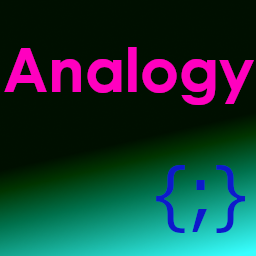
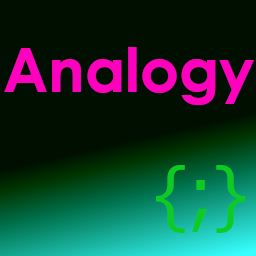
wip

diff --git a/Analogy.LogViewer.JsonParser/IAnalogy/AnalogyJsonFactory.cs b/Analogy.LogViewer.JsonParser/IAnalogy/AnalogyJsonFactory.cs
@@ -15,17 +15,17 @@ namespace Analogy.LogViewer.JsonParser.IAnalogy
     {
         internal static Guid Id = new Guid("D7146342-AEB2-4BD5-8710-7D1BF06EA5CF");
         public Guid FactoryId { get; } = Id;
-        public string Title { get; } = "Analogy Json Text Parser";
+        public string Title { get; } = "Json Log Parser";
         public IEnumerable<IAnalogyChangeLog> ChangeLog => JsonParser.ChangeLog.GetChangeLog();
         public IEnumerable<string> Contributors { get; } = new List<string> { "Lior Banai" };
-        public string About { get; } = "Analogy Json Text Parser";
+        public string About { get; } = "Json Log Parser";
 
     }
 
     public class AnalogyJsonDataProviderFactory : IAnalogyDataProvidersFactory
     {
         public Guid FactoryId { get; } = JsonFactory.Id;
-        public string Title { get; } = "Analogy XML Data Provider";
+        public string Title { get; } = "Json Data Provider";
         public IEnumerable<IAnalogyDataProvider> DataProviders { get; } = new List<IAnalogyDataProvider>()
         {
             new JsonDataProvider(UserSettingsManager.UserSettings.LogParserSettings)
@@ -35,7 +35,7 @@ namespace Analogy.LogViewer.JsonParser.IAnalogy
     public class AnalogyJsonCustomActionFactory : IAnalogyCustomActionsFactory
     {
         public Guid FactoryId { get; } = JsonFactory.Id;
-        public string Title { get; } = "Analogy XML Text tools";
+        public string Title { get; } = "Json tools";
         public IEnumerable<IAnalogyCustomAction> Actions { get; } = new List<IAnalogyCustomAction>(0);
 
     }
@@ -43,7 +43,7 @@ namespace Analogy.LogViewer.JsonParser.IAnalogy
     public class AnalogyJsonSettings : IAnalogyDataProviderSettings
     {
 
-        public string Title { get; } = "Plain Text Settings";
+        public string Title { get; } = "Json Parser Settings";
 
         public UserControl DataProviderSettings { get; } =
             new CommonLogSettingsUC(UserSettingsManager.UserSettings.LogParserSettings);

diff --git a/Analogy.LogViewer.JsonParser/IAnalogy/JsonParserComponentImages.cs b/Analogy.LogViewer.JsonParser/IAnalogy/JsonParserComponentImages.cs
@@ -1,0 +1,36 @@
+using System;
+using System.Collections.Generic;
+using System.Drawing;
+using System.Linq;
+using System.Text;
+using System.Threading.Tasks;
+using Analogy.DataProviders.Extensions;
+using Analogy.LogViewer.JsonParser.Properties;
+
+namespace Analogy.LogViewer.JsonParser.IAnalogy
+{
+    public class JsonParserComponentImages : IAnalogyComponentImages
+    {
+        public Image GetLargeImage(Guid analogyComponentId)
+        {
+            if (analogyComponentId == JsonFactory.Id)
+                return Resources.jsonfile32x32;
+            return null;
+        }
+
+        public Image GetSmallImage(Guid analogyComponentId)
+        {
+            if (analogyComponentId == JsonFactory.Id)
+                return Resources.jsonfile16x16;
+            return null;
+        }
+
+        public Image GetOnlineConnectedLargeImage(Guid analogyComponentId) => null;
+
+        public Image GetOnlineConnectedSmallImage(Guid analogyComponentId) => null;
+
+        public Image GetOnlineDisconnectedLargeImage(Guid analogyComponentId) => null;
+
+        public Image GetOnlineDisconnectedSmallImage(Guid analogyComponentId) => null;
+    }
+}

diff --git a/Analogy.LogViewer.JsonParser/Properties/Resources.Designer.cs b/Analogy.LogViewer.JsonParser/Properties/Resources.Designer.cs
@@ -63,6 +63,16 @@ namespace Analogy.LogViewer.JsonParser.Properties {
         /// <summary>
         ///   Looks up a localized resource of type System.Drawing.Bitmap.
         /// </summary>
+        internal static System.Drawing.Bitmap jsonfile16x16 {
+            get {
+                object obj = ResourceManager.GetObject("jsonfile16x16", resourceCulture);
+                return ((System.Drawing.Bitmap)(obj));
+            }
+        }
+        
+        /// <summary>
+        ///   Looks up a localized resource of type System.Drawing.Bitmap.
+        /// </summary>
         internal static System.Drawing.Bitmap jsonfile32x32 {
             get {
                 object obj = ResourceManager.GetObject("jsonfile32x32", resourceCulture);
